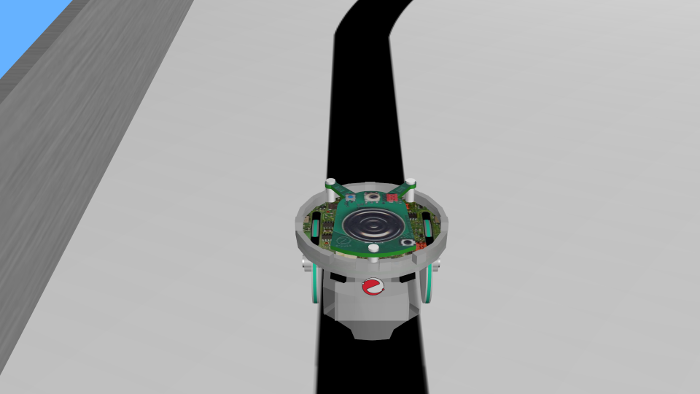
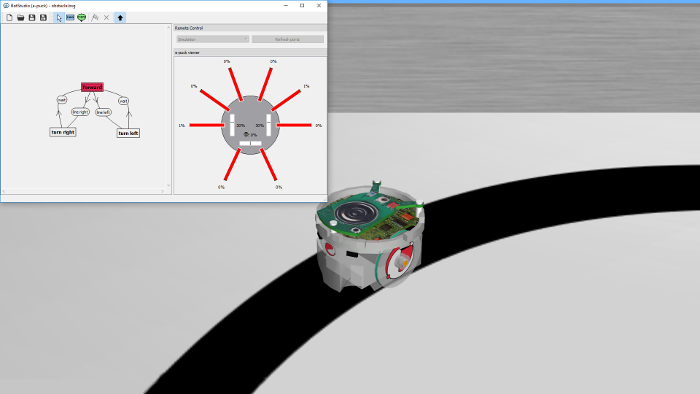
Better screenshot and descriptions

diff --git a/guide/using-the-e-puck-robot.md b/guide/using-the-e-puck-robot.md
@@ -195,7 +195,7 @@ An algorithm is applied on the last line of the camera and returns a integer bet
 A condition can be set on this value to get a line follower behavior.
 
 An example of BotStudio can be found by opening the "WEBOTS\_HOME/projects/robots/e-puck/world/e-puck\_botstudio.wbt" world file (see below).
-The BotStudio windows appears when the e-puck's controller points on a *.bsg* file.
+The BotStudio windows appears upon double clicking on the e-puck when the controller points on a *.bsg* file.
 
 #### Bluetooth setup
 
@@ -293,19 +293,19 @@ If you develop a useful modification and would like to share it, please let us k
 
 #### e-puck\_botstudio.wbt
 
-![e-puck_botstudio_example.png](images/e-puck_botstudio_example.png) The "e-puck\_botstudio\_example.wbt" is an example
+![e-puck_botstudio_example.png](images/e-puck_botstudio_example.png) The "e-puck\_botstudio\_example.wbt" is an example of a controller using the BotStudio visual programming language. The BotStudio windows appears upon double clicking on the e-puck allowing the user to see which command is executed.
 
 #### e-puck\_botstudio\_with\_floor\_sensors.wbt
 
-![e-puck_botstudio_example.png](images/e-puck_botstudio_example.png) The "e-puck\_botstudio\_with\_floor\_sensors.wbt" is an example
+![e-puck_botstudio_example.png](images/e-puck_botstudio_example.png) The "e-puck\_botstudio\_with\_floor\_sensors.wbt" is an example world similar to that of "e-puck\_botstudio\_example.wbt" but where the e-puck has a line following behavior based on its floor sensors.
 
 #### e-puck\_cross-compilation.wbt
 
-![e-puck_cross-compilation.png](images/e-puck_cross-compilation.png) The "e-puck\_cross-compilation.wbt" is an example
+![e-puck_cross-compilation.png](images/e-puck_cross-compilation.png) The "e-puck\_cross-compilation.wbt" is an example using a cross-compilation controller.
 
 #### e-puck\_kinematic.wbt
 
-![e-puck_kinematic.png](images/e-puck_kinematic.png) The "e-puck\_kinematic.wbt" is an example
+![e-puck_kinematic.png](images/e-puck_kinematic.png) The "e-puck\_kinematic.wbt" is an example world similar to "e-puck.wbt" but where the kinematic field of the E-puck PROTO node is true. This allows the robot's motion to be calculated according to 2D kinematics algorithms and the collision detection to be calculated with 3D algorithms. More information on the kinematic mode can be found [here](https://www.cyberbotics.com/doc/reference/differentialwheels).
 
 #### e-puck\_line.wbt
 
